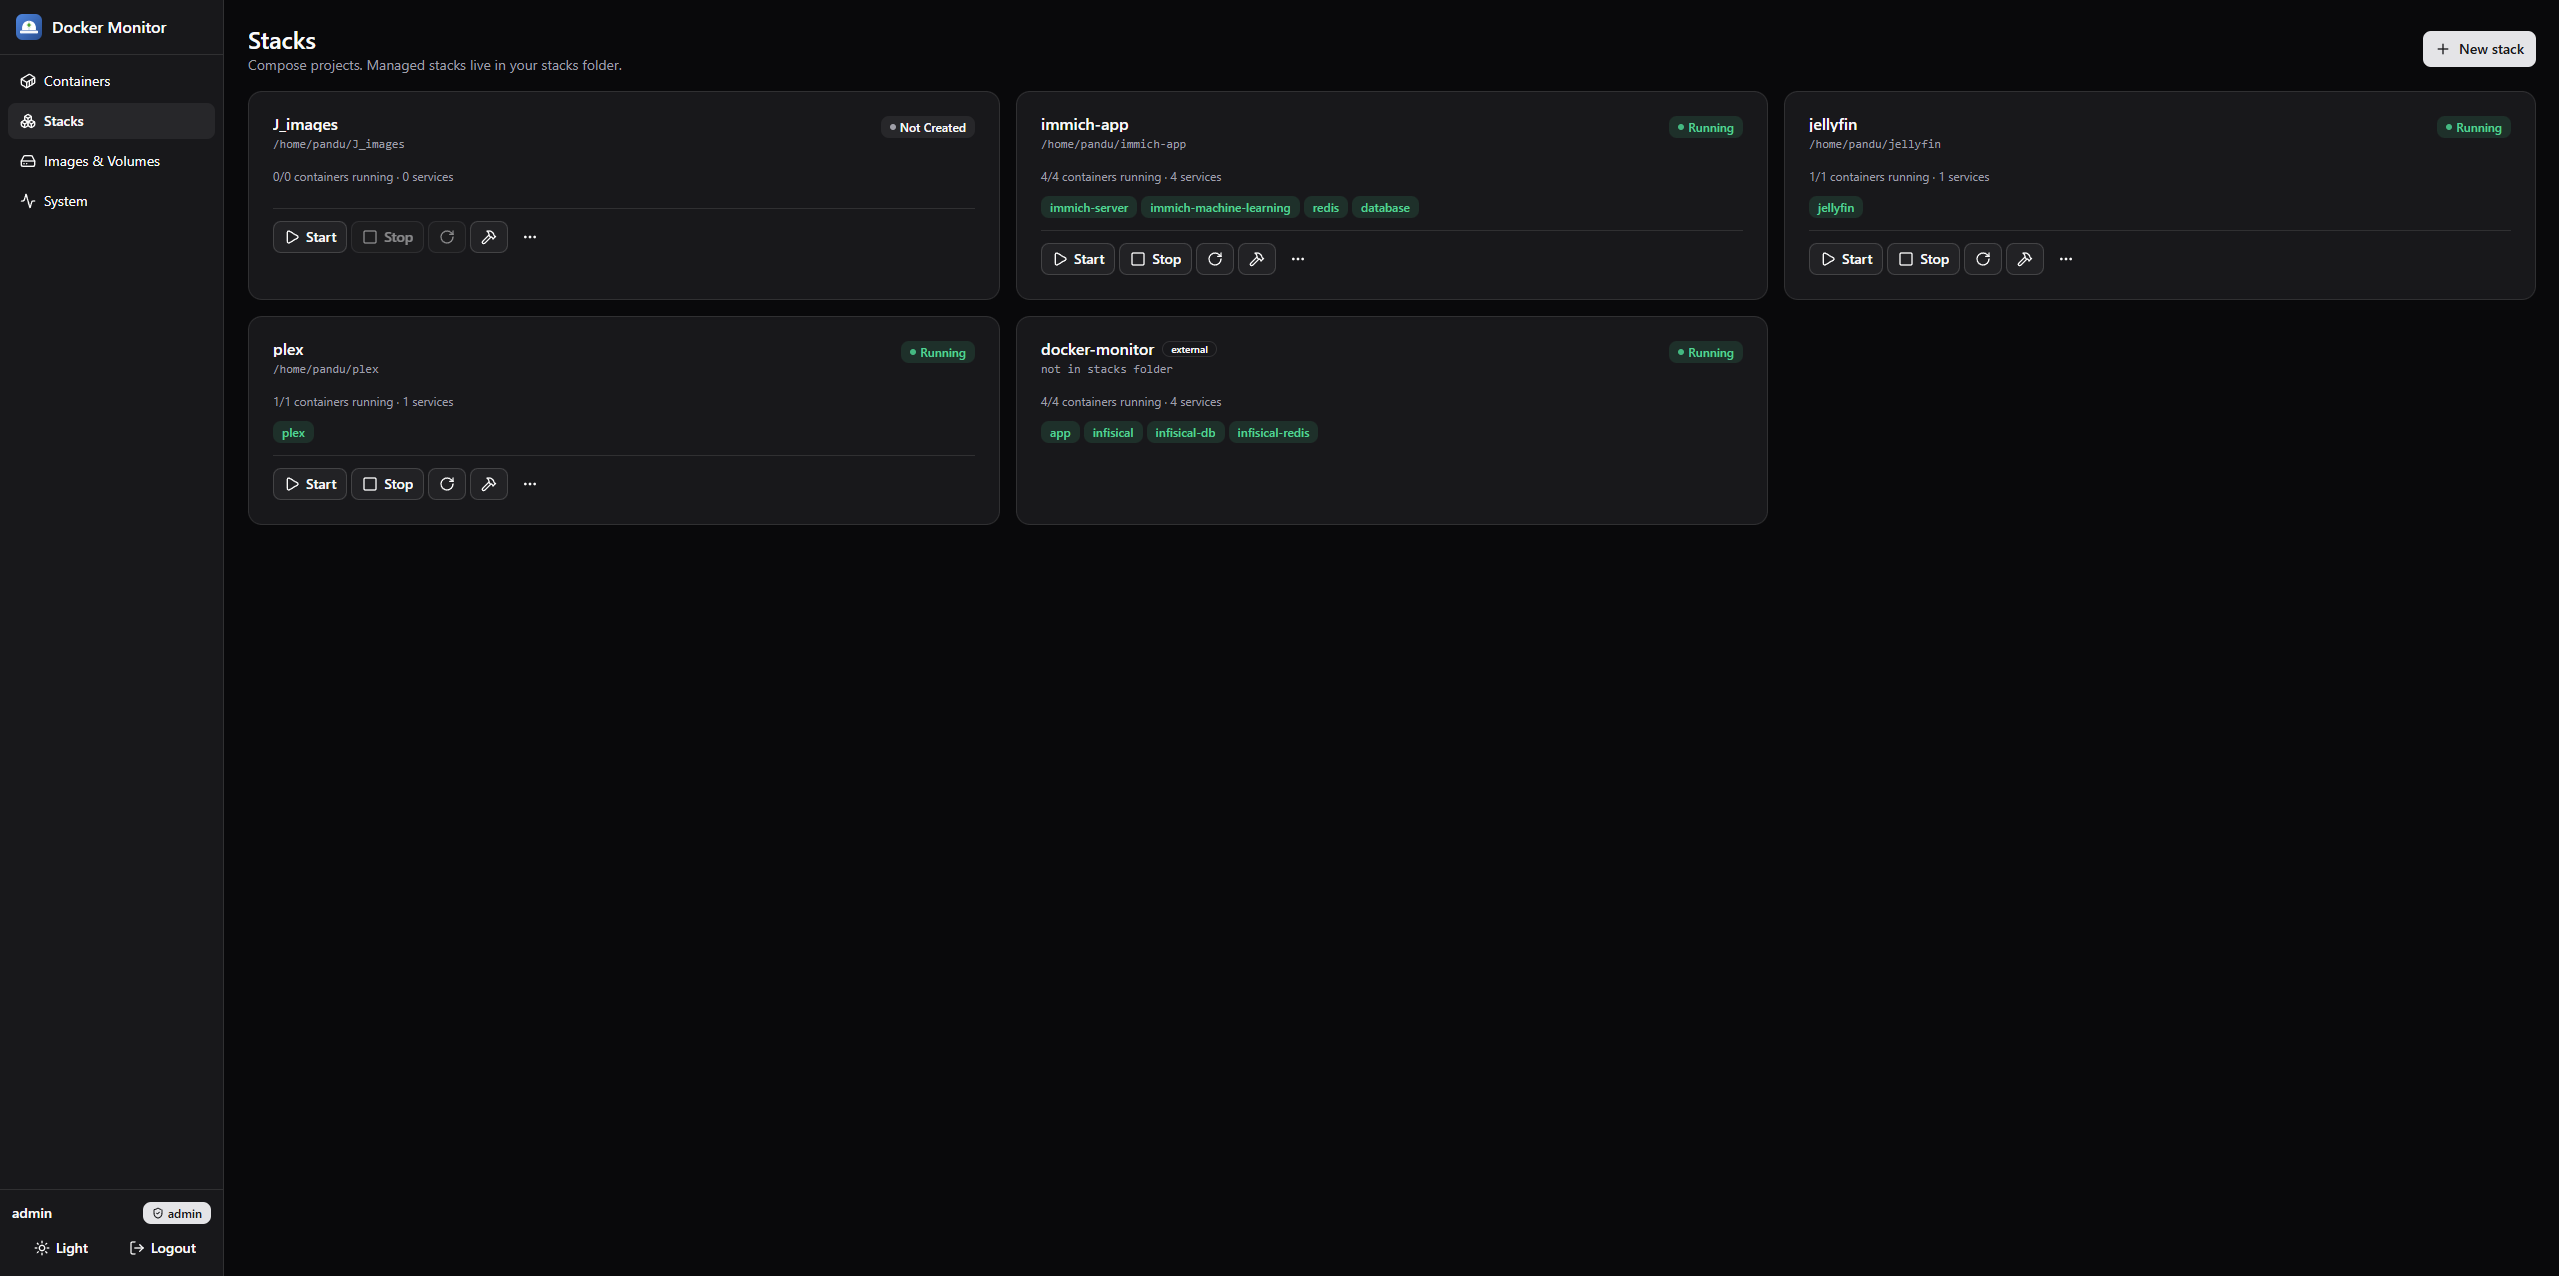
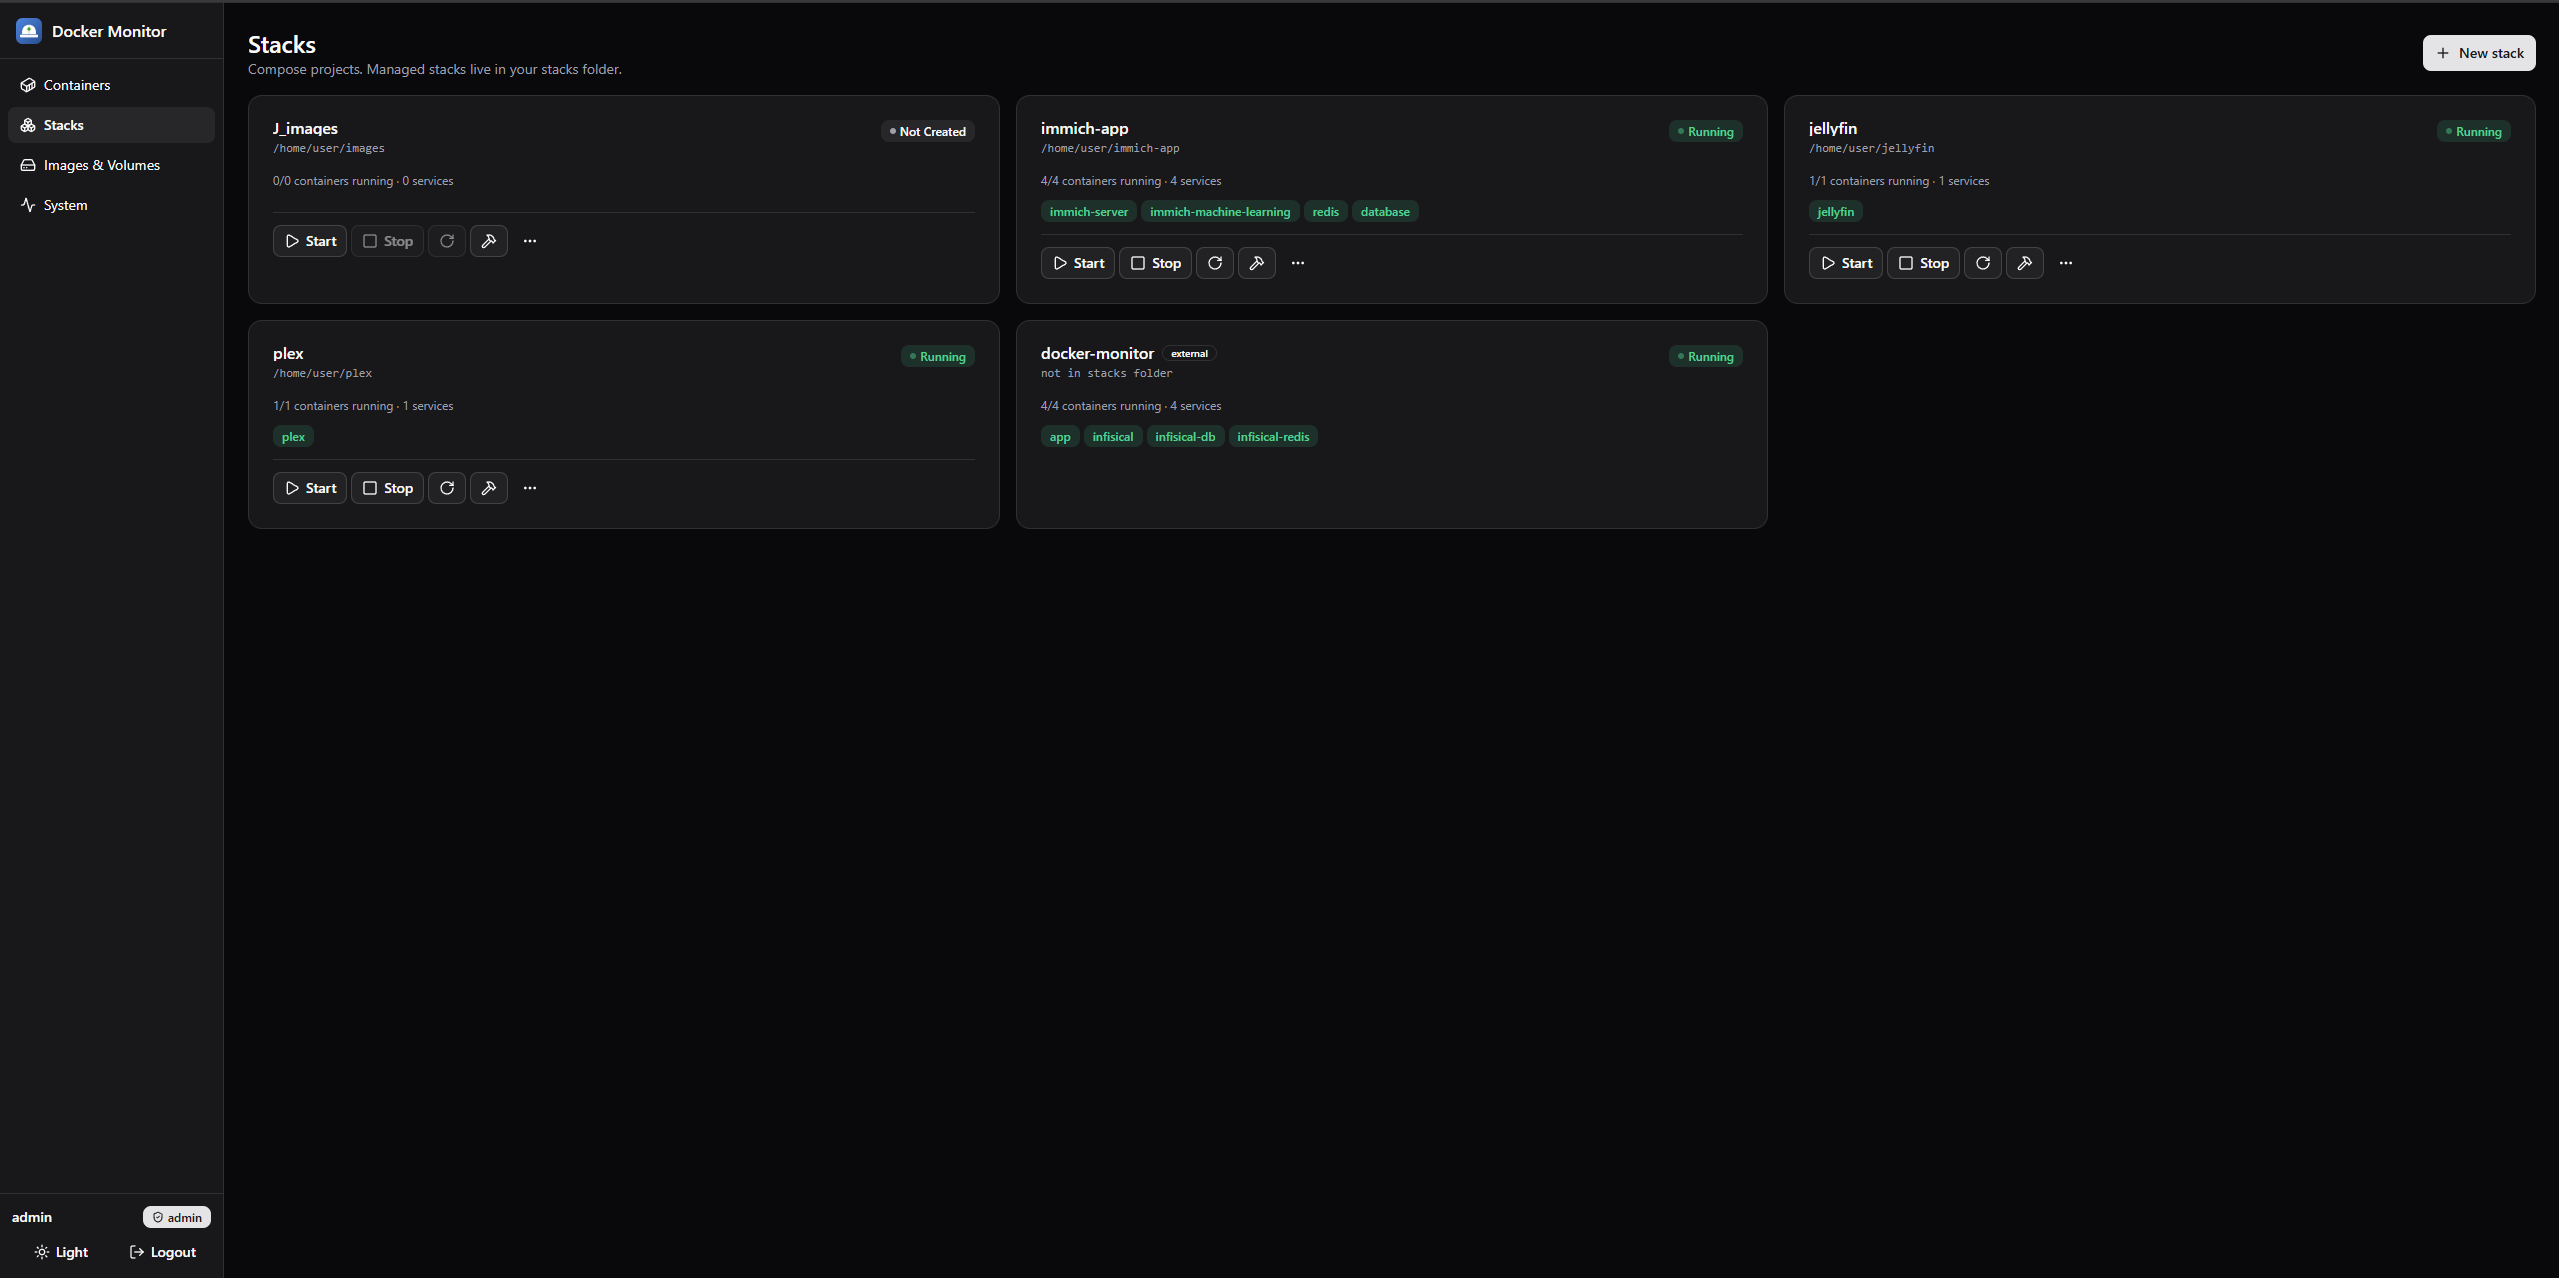
added reference images and update Readme

diff --git a/README.md b/README.md
@@ -68,7 +68,15 @@ This project is licensed under the [MIT License](LICENSE) — free to use, modif
 </p>
 
 <p align="center">
+  <img src="reference-images/Container_Expanded.png" alt="Containers overview" width="800"/>
+</p>
+
+<p align="center">
   <img src="reference-images/Stacks.png" alt="Stacks management view" width="800"/>
+</p>
+
+<p align="center">
+  <img src="reference-images/Stack_Expanded.png" alt="Stacks management view" width="800"/>
 </p>
 
 <p align="center">
